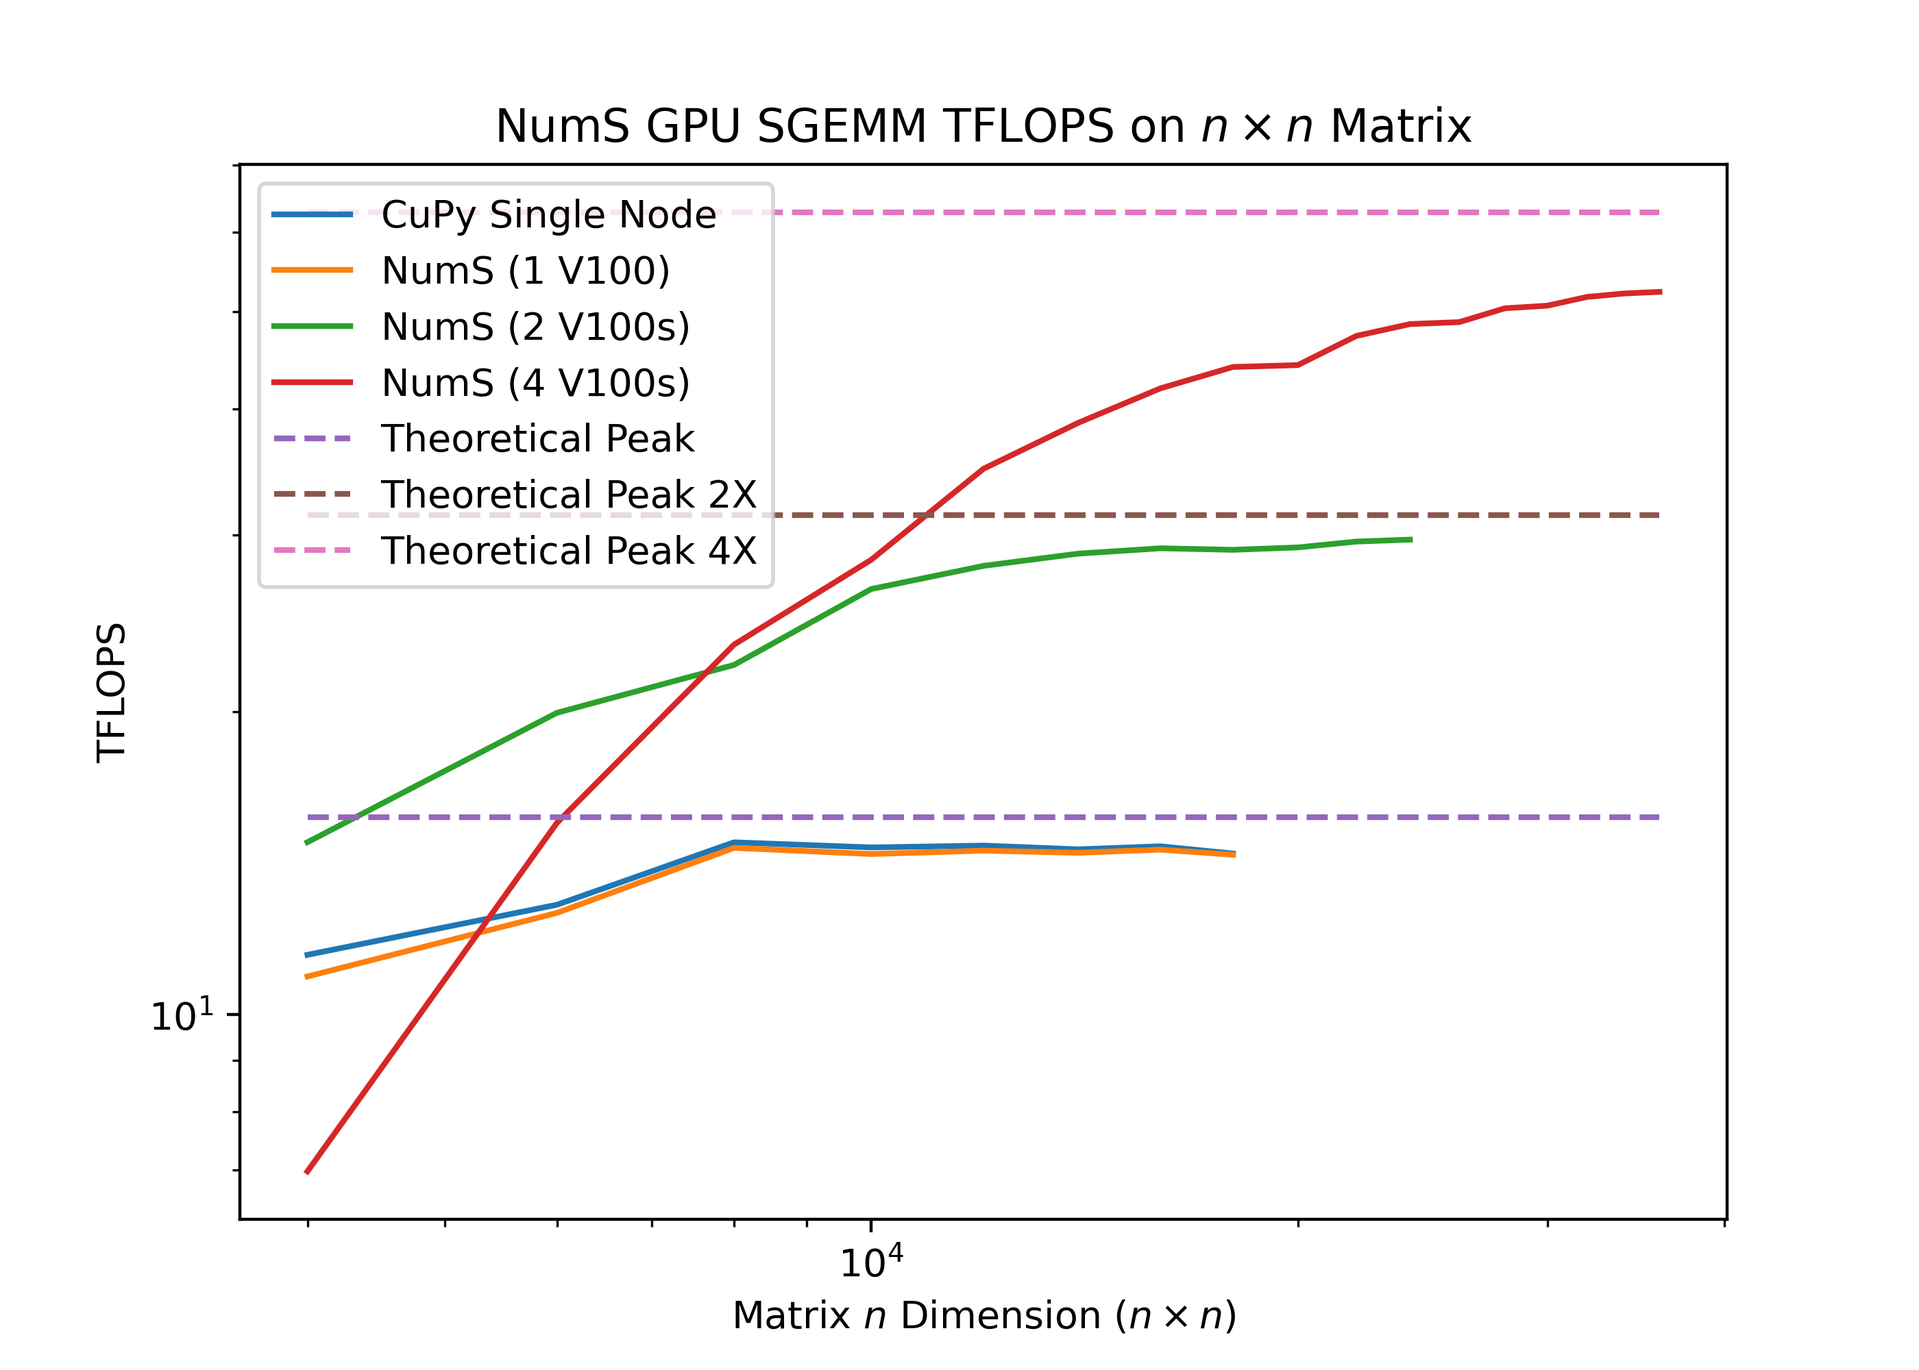
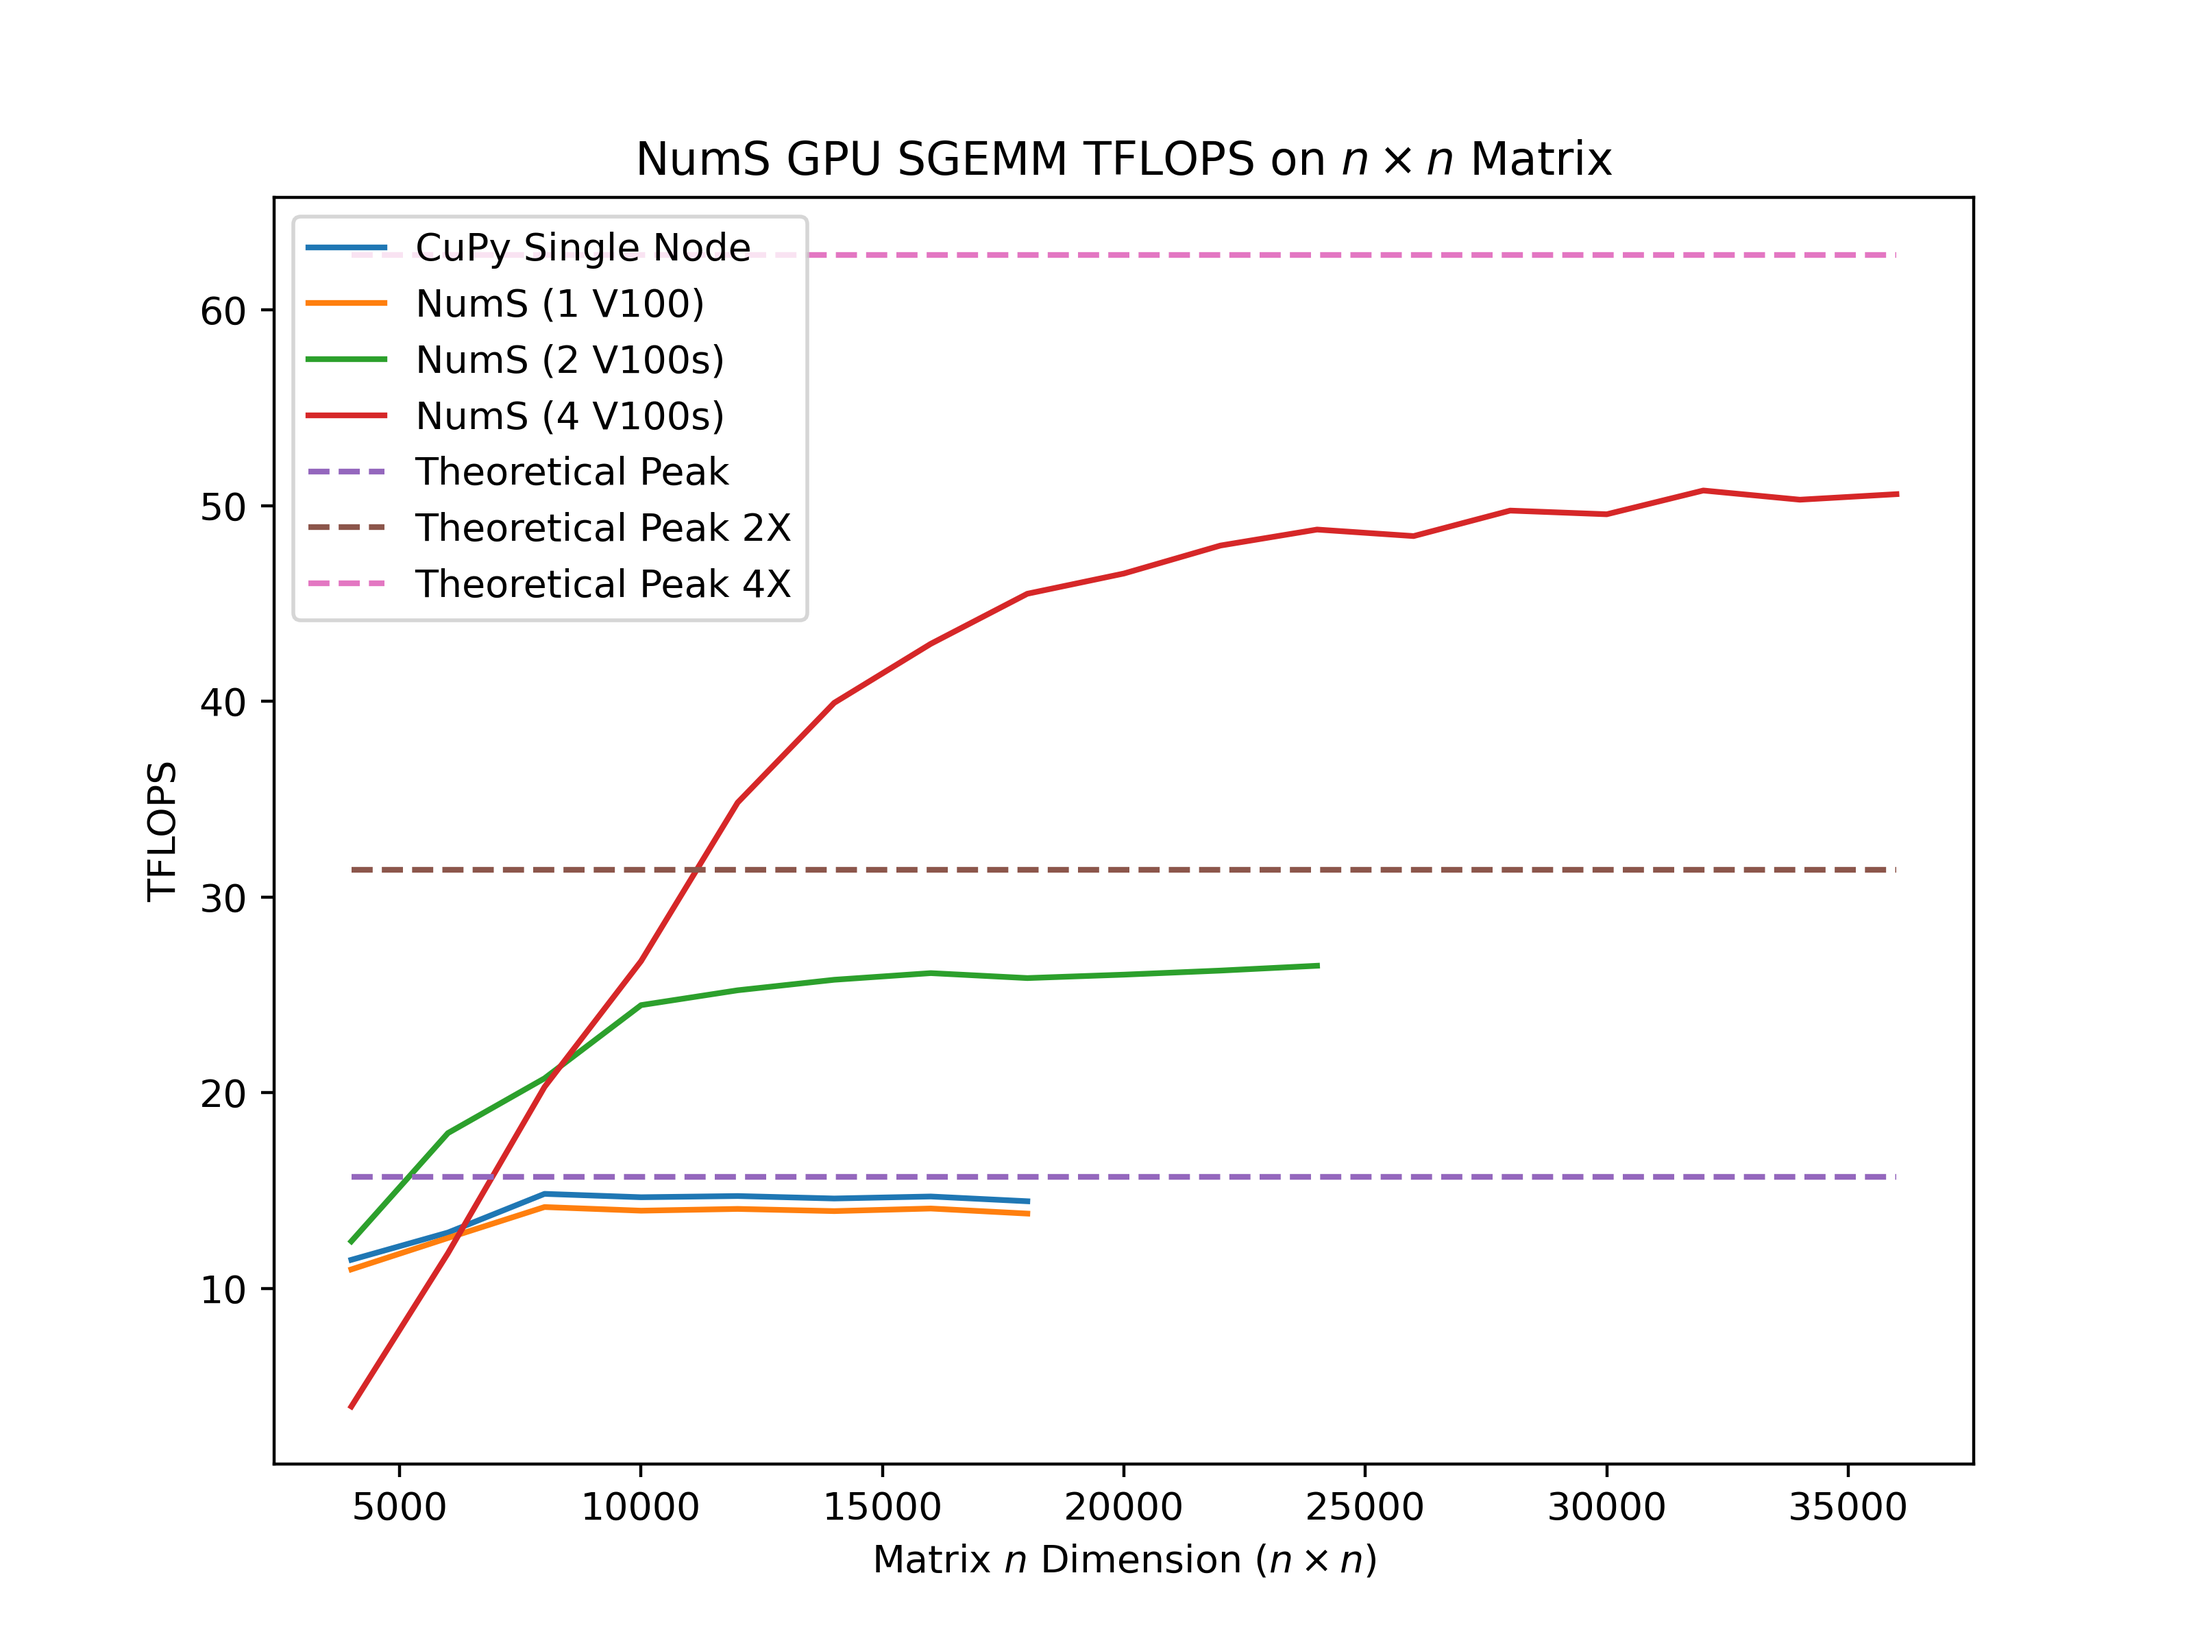
Update benchmarks

diff --git a/plot.py b/plot.py
@@ -55,26 +55,42 @@ if __name__ == "__main__":
     df_nums_mm_1 = plotter(is_nums=True, mode="matmul", dtype="float64", num_gpus=1)
     df_nums_mm_2 = plotter(is_nums=True, mode="matmul", dtype="float64", num_gpus=2)
     df_nums_mm_4 = plotter(is_nums=True, mode="matmul", dtype="float64", num_gpus=4)
+    # df_nums_mm_8 = plotter(is_nums=True, mode="matmul", dtype="float64", num_gpus=8)
 
-    plt.figure(figsize=(7, 5))
+    plt.figure(figsize=(8, 6))
     plt.plot(df_cupy_mm["n"], df_cupy_mm["flops"] / TERA, label="CuPy Single Node")
     plt.plot(df_nums_mm_1["n"], df_nums_mm_1["flops"] / TERA, label="NumS (1 V100)")
     plt.plot(df_nums_mm_2["n"], df_nums_mm_2["flops"] / TERA, label="NumS (2 V100s)")
     plt.plot(df_nums_mm_4["n"], df_nums_mm_4["flops"] / TERA, label="NumS (4 V100s)")
+    # plt.plot(df_nums_mm_8["n"], df_nums_mm_8["flops"] / TERA, label="NumS (8 V100s)")
     plt.plot(df_nums_mm_4["n"], [THEORETICAL_PEAK_64  / TERA for n in df_nums_mm_4["n"]], label="Theoretical Peak", linestyle="--")
     plt.plot(df_nums_mm_4["n"], [THEORETICAL_PEAK_64 * 2 / TERA for n in df_nums_mm_4["n"]], label="Theoretical Peak 2X", linestyle="--")
     plt.plot(df_nums_mm_4["n"], [THEORETICAL_PEAK_64 * 4 / TERA for n in df_nums_mm_4["n"]], label="Theoretical Peak 4X", linestyle="--")
-    # plt.plot(df_nums_mm_4["n"], [EMPIRICAL_PEAK_64  / TERA for n in df_nums_mm_4["n"]], label="Empirical Peak", linestyle="--")
-    # plt.plot(df_nums_mm_4["n"], [EMPIRICAL_PEAK_64 * 2 / TERA for n in df_nums_mm_4["n"]], label="Empirical Peak 2X", linestyle="--")
-    # plt.plot(df_nums_mm_4["n"], [EMPIRICAL_PEAK_64 * 4 / TERA for n in df_nums_mm_4["n"]], label="Empirical Peak 4X", linestyle="--")
+    # plt.plot(df_nums_mm_8["n"], [THEORETICAL_PEAK_64 * 8 / TERA for n in df_nums_mm_8["n"]], label="Theoretical Peak 8X", linestyle="--")
+    plt.plot(df_nums_mm_4["n"], [EMPIRICAL_PEAK_64  / TERA for n in df_nums_mm_4["n"]], label="Empirical Peak", linestyle="--")
+    plt.plot(df_nums_mm_4["n"], [EMPIRICAL_PEAK_64 * 2 / TERA for n in df_nums_mm_4["n"]], label="Empirical Peak 2X", linestyle="--")
+    plt.plot(df_nums_mm_4["n"], [EMPIRICAL_PEAK_64 * 4 / TERA for n in df_nums_mm_4["n"]], label="Empirical Peak 4X", linestyle="--")
     plt.title(r"NumS GPU DGEMM TFLOPS on $n \times n$ Matrix")
     plt.xlabel(r"Matrix $n$ Dimension ($n \times n$)")
     plt.ylabel("TFLOPS")
-    plt.yscale("log")
-    plt.xscale("log")
     plt.legend()
     plt.savefig("figures/NumS_GPU_TFLOPS_DGEMM.png", dpi=400)
     plt.clf()
+
+    
+    print("CuPy")
+    print("Percentage of Empirical Peak (1 V100s): ", df_cupy_mm["flops"].max() / EMPIRICAL_PEAK_64)
+    print("Percentage of Theoretical Peak (1 V100s): ", df_cupy_mm["flops"].max() /  THEORETICAL_PEAK_64)
+    
+    print("NumS")
+    print("Percentage of Empirical Peak (1 V100s): ", df_nums_mm_1["flops"].max() / EMPIRICAL_PEAK_64)
+    print("Percentage of Empirical Peak (2 V100s): ", df_nums_mm_2["flops"].max() / (EMPIRICAL_PEAK_64 * 2))
+    print("Percentage of Empirical Peak (4 V100s): ", df_nums_mm_4["flops"].max() / (EMPIRICAL_PEAK_64 * 4))
+
+    print("Percentage of Theoretical Peak (1 V100s): ", df_nums_mm_1["flops"].max() /  THEORETICAL_PEAK_64)
+    print("Percentage of Theoretical Peak (2 V100s): ", df_nums_mm_2["flops"].max() / (THEORETICAL_PEAK_64 * 2))
+    print("Percentage of Theoretical Peak (4 V100s): ", df_nums_mm_4["flops"].max() / (THEORETICAL_PEAK_64 * 4))
+
 
 
 
@@ -83,23 +99,28 @@ if __name__ == "__main__":
     df_nums_mm_1 = plotter(is_nums=True, mode="matmul", dtype="float32", num_gpus=1)
     df_nums_mm_2 = plotter(is_nums=True, mode="matmul", dtype="float32", num_gpus=2)
     df_nums_mm_4 = plotter(is_nums=True, mode="matmul", dtype="float32", num_gpus=4)
+    # df_nums_mm_8 = plotter(is_nums=True, mode="matmul", dtype="float32", num_gpus=8)
 
-    plt.figure(figsize=(7, 5))
+    plt.figure(figsize=(8, 6))
     plt.plot(df_cupy_mm["n"], df_cupy_mm["flops"] / TERA, label="CuPy Single Node")
     plt.plot(df_nums_mm_1["n"], df_nums_mm_1["flops"] / TERA, label="NumS (1 V100)")
     plt.plot(df_nums_mm_2["n"], df_nums_mm_2["flops"] / TERA, label="NumS (2 V100s)")
     plt.plot(df_nums_mm_4["n"], df_nums_mm_4["flops"] / TERA, label="NumS (4 V100s)")
+    # plt.plot(df_nums_mm_8["n"], df_nums_mm_8["flops"] / TERA, label="NumS (8 V100s)")
     plt.plot(df_nums_mm_4["n"], [THEORETICAL_PEAK_32 / TERA for n in df_nums_mm_4["n"]], label="Theoretical Peak", linestyle="--")
     plt.plot(df_nums_mm_4["n"], [THEORETICAL_PEAK_32 * 2 / TERA for n in df_nums_mm_4["n"]], label="Theoretical Peak 2X", linestyle="--")
     plt.plot(df_nums_mm_4["n"], [THEORETICAL_PEAK_32 * 4 / TERA for n in df_nums_mm_4["n"]], label="Theoretical Peak 4X", linestyle="--")
+    # plt.plot(df_nums_mm_8["n"], [THEORETICAL_PEAK_32 * 8 / TERA for n in df_nums_mm_8["n"]], label="Theoretical Peak 8X", linestyle="--")
     plt.title(r"NumS GPU SGEMM TFLOPS on $n \times n$ Matrix")
     plt.xlabel(r"Matrix $n$ Dimension ($n \times n$)")
     plt.ylabel("TFLOPS")
-    plt.yscale("log")
-    plt.xscale("log")
     plt.legend()
     plt.savefig("figures/NumS_GPU_TFLOPS_SGEMM.png", dpi=400)
     plt.clf()
+
+    print("Percentage of Theoretical Peak (1 V100s): ", df_nums_mm_1["flops"].max() /  THEORETICAL_PEAK_32)
+    print("Percentage of Theoretical Peak (2 V100s): ", df_nums_mm_2["flops"].max() / (THEORETICAL_PEAK_32 * 2))
+    print("Percentage of Theoretical Peak (4 V100s): ", df_nums_mm_4["flops"].max() / (THEORETICAL_PEAK_32 * 4))
 
 
     df_cupy_mm = plotter(is_nums=False, mode="matmul", dtype="float16", num_gpus=1)
@@ -107,23 +128,26 @@ if __name__ == "__main__":
     df_nums_mm_1 = plotter(is_nums=True, mode="matmul", dtype="float16", num_gpus=1)
     df_nums_mm_2 = plotter(is_nums=True, mode="matmul", dtype="float16", num_gpus=2)
     df_nums_mm_4 = plotter(is_nums=True, mode="matmul", dtype="float16", num_gpus=4)
+    # df_nums_mm_8 = plotter(is_nums=True, mode="matmul", dtype="float16", num_gpus=8)
 
-    plt.figure(figsize=(7, 5))
+    plt.figure(figsize=(8, 6))
     plt.plot(df_cupy_mm["n"], df_cupy_mm["flops"] / TERA, label="CuPy Single Node")
     plt.plot(df_nums_mm_1["n"], df_nums_mm_1["flops"] / TERA, label="NumS (1 V100)")
     plt.plot(df_nums_mm_2["n"], df_nums_mm_2["flops"] / TERA, label="NumS (2 V100s)")
     plt.plot(df_nums_mm_4["n"], df_nums_mm_4["flops"] / TERA, label="NumS (4 V100s)")
+    # plt.plot(df_nums_mm_8["n"], df_nums_mm_8["flops"] / TERA, label="NumS (8 V100s)")
     plt.plot(df_nums_mm_4["n"], [THEORETICAL_PEAK_TENSOR / TERA for n in df_nums_mm_4["n"]], label="Theoretical Peak", linestyle="--")
     plt.plot(df_nums_mm_4["n"], [THEORETICAL_PEAK_TENSOR * 2 / TERA for n in df_nums_mm_4["n"]], label="Theoretical Peak 2X", linestyle="--")
     plt.plot(df_nums_mm_4["n"], [THEORETICAL_PEAK_TENSOR * 4 / TERA for n in df_nums_mm_4["n"]], label="Theoretical Peak 4X", linestyle="--")
+    # plt.plot(df_nums_mm_4["n"], [THEORETICAL_PEAK_TENSOR * 8 / TERA for n in df_nums_mm_4["n"]], label="Theoretical Peak 8X", linestyle="--")
     plt.title(r"NumS GPU FP16 GEMM TFLOPS  on $n \times n$ Matrix")
     plt.xlabel(r"Matrix $n$ Dimension ($n \times n$)")
     plt.ylabel("TFLOPS")
-    plt.yscale("log")
-    plt.xscale("log")
     plt.legend()
     plt.savefig("figures/NumS_GPU_TFLOPS_FP16GEMM.png", dpi=400)
     plt.clf()
 
-    
+    print("Percentage of Theoretical Peak (1 V100s): ", df_nums_mm_1["flops"].max() /  THEORETICAL_PEAK_TENSOR)
+    print("Percentage of Theoretical Peak (2 V100s): ", df_nums_mm_2["flops"].max() / (THEORETICAL_PEAK_TENSOR * 2))
+    print("Percentage of Theoretical Peak (4 V100s): ", df_nums_mm_4["flops"].max() / (THEORETICAL_PEAK_TENSOR * 4))
 
